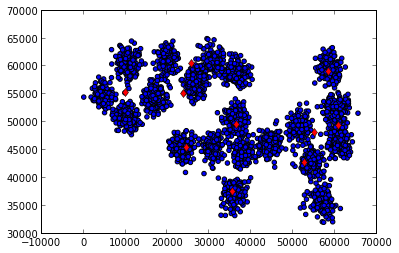
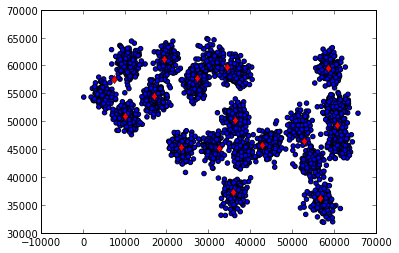
-

diff --git a/stat/stat_hadoop_kmeans/kmeans.tex b/stat/stat_hadoop_kmeans/kmeans.tex
@@ -199,7 +199,7 @@ plt.scatter(df1.ix[:,0],df1.ix[:,1])
 \end{codeinput}
 \begin{codeoutput}
 \begin{verbatim}
-<matplotlib.collections.PathCollection at 0x9dbd6cc>
+<matplotlib.collections.PathCollection at 0xafa270c>
 \end{verbatim}
 \begin{center}
 \includegraphics[width=0.7\textwidth]{kmeans_files/kmeans_fig_00.png}
@@ -218,19 +218,19 @@ plt.scatter(df1.ix[:,0],df1.ix[:,1])
 \end{codeinput}
 \begin{codeoutput}
 \begin{verbatim}
-stopping jobtracker
+no jobtracker to stop
 \end{verbatim}
 \begin{verbatim}
-localhost: stopping tasktracker
+localhost: no tasktracker to stop
 \end{verbatim}
 \begin{verbatim}
-stopping namenode
+no namenode to stop
 \end{verbatim}
 \begin{verbatim}
-localhost: stopping datanode
+localhost: no datanode to stop
 \end{verbatim}
 \begin{verbatim}
-localhost: stopping secondarynamenode
+localhost: no secondarynamenode to stop
 \end{verbatim}
 \begin{verbatim}
 starting namenode, logging to /home/hduser/Downloads/hadoop-1.0.4/libexec/../logs/hadoop-hduser-namenode-burak-Aspire-S3.out
@@ -261,6 +261,11 @@ komutlarimiz bile oraya erisemiyor)
 !ssh localhost -l hduser /home/hduser/Downloads/hadoop*/bin/hadoop dfs -mkdir /tmp/
 \end{lstlisting}
 \end{codeinput}
+\begin{codeoutput}
+\begin{verbatim}
+mkdir: cannot create directory /tmp/: File exists
+\end{verbatim}
+\end{codeoutput}
 \end{codecell}
 \begin{codecell}
 \begin{codeinput}
@@ -358,7 +363,7 @@ df4.to_csv(sys.stdout, sep=',',header=None)
 \end{codeoutput}
 \end{codecell}
 Alttaki blokta merkezleri rasgele seciyoruz. Bunun icin veri icinden
-rasgele 10 tane (k kadar) nokta cekip cikartik. Bu rasgele sayi uretimi
+rasgele 15 tane (k kadar) nokta cekip cikartik. Bu rasgele sayi uretimi
 ile de yapilabilirdi.
 
 \begin{codecell}
@@ -367,7 +372,7 @@ ile de yapilabilirdi.
 import os,sys,itertools
 from numpy import linalg as la
 import pandas as pd
-k = 10
+k = 15
 df = read_csv("synthetic.txt",header=None,sep="   ")
 centers = df.take(np.random.permutation(len(df))[:k])
 centers.to_csv("/tmp/centers.csv",header=None)
@@ -379,29 +384,38 @@ Komut satirindan tek makina icin Hadoop'suz isletelim,
 \begin{codecell}
 \begin{codeinput}
 \begin{lstlisting}
-!cat synthetic.txt | python mapper.py | python reducer.py
+for i in range(20):
+    os.system("cat synthetic.txt | python mapper.py | python reducer.py > /tmp/centers2.csv")
+    os.system("mv /tmp/centers2.csv /tmp/centers.csv")
+
+\end{lstlisting}
+\end{codeinput}
+\end{codecell}
+\begin{codecell}
+\begin{codeinput}
+\begin{lstlisting}
+df1 = read_csv("synthetic.txt",sep="   ")
+plt.scatter(df1.ix[:,0],df1.ix[:,1])
+plt.hold(True)
+df2 = read_csv("/tmp/centers.csv",header=None,index_col=0)
+plt.plot(df2.ix[:,1],df2.ix[:,2],'rd')
 
 \end{lstlisting}
 \end{codeinput}
 \begin{codeoutput}
 \begin{verbatim}
-0.0,36718.08528428094,49564.140468227422
-1.0,25959.254408060453,60455.123425692698
-2.0,55249.026666666665,48112.053333333337
-3.0,35568.968944099382,37459.291925465841
-4.0,23859.836363636365,55127.80909090909
-5.0,24622.733695652172,45459.809782608696
-6.0,58702.199999999997,59040.274285714288
-7.0,52774.160493827163,42663.596707818928
-8.0,10195.186832740214,55198.960854092526
-9.0,60974.952380952382,49307.349206349209
+[<matplotlib.lines.Line2D at 0xb1ff8cc>]
 \end{verbatim}
+\begin{center}
+\includegraphics[width=0.7\textwidth]{kmeans_files/kmeans_fig_01.png}
+\par
+\end{center}
 \end{codeoutput}
 \end{codecell}
-Simdi K-Means'i isleten kosturucu (runner) program. Bu program esleme,
-indirgeme safhalarini cagiracak, ve indirgeyici sonrasi ciktiyi alip
-yeni kume merkezi yapacak, bunun gibi idari / temizlik islerini
-halledecek.
+Simdi K-Means'i Hadoop'tan isleten kosturucu (runner) program. Bu
+program esleme, indirgeme safhalarini cagiracak, ve indirgeyici sonrasi
+ciktiyi alip yeni kume merkezi yapacak, bunun gibi idari / temizlik
+islerini halledecek.
 
 \begin{codecell}
 \begin{codeinput}
@@ -421,7 +435,7 @@ streaming_cmd = "/home/hduser/Downloads/hadoop*/contrib/streaming/hadoop-*stream
 os.system("%s dfs -rm /user/hduser/centers.csv" % hp_cmd)
 os.system("%s dfs -copyFromLocal /tmp/centers.csv /user/hduser" % hp_cmd)
 
-for i in range(10):
+for i in range(20):
     os.system("%s dfs -rmr /user/hduser/output" % hp_cmd)
     os.system("%s jar %s -input synthetic.txt -output output -mapper /tmp/mapper.py -reducer /tmp/reducer.py -numReduceTasks 1" % (hp_cmd,streaming_cmd))
     os.system("%s dfs -cp /user/hduser/output/part-00000 /user/hduser/centers.csv" % hp_cmd) 
@@ -429,11 +443,11 @@ for i in range(10):
 \end{lstlisting}
 \end{codeinput}
 \end{codecell}
-Ustte K-Means'i 10 kere islettigimizi goruyoruz. Eger istenirse (hatta
+Ustte K-Means'i 20 kere islettigimizi goruyoruz. Eger istenirse (hatta
 daha iyi olur) dongu bir while icine konur ve bitis icin ``stabilite
 sarti'' aranir. Stabilite yeni kume merkezinin eskisinden ``cok fazla
 degisik olup olmadigi'' sartidir, degisim yoksa artik sonucu bulmusuz
-demektir, daha fazla donguye gerek kalmayacaktir. Biz donguyu 10 kere
+demektir, daha fazla donguye gerek kalmayacaktir. Biz donguyu 20 kere
 donguyu islettik, (bu problem icin) yeterli oldu.
 
 K-Means isini bitirdikten sonra elde edilen sonuclari artik HDFS'ten
@@ -466,15 +480,15 @@ plt.plot(df2.ix[:,1],df2.ix[:,2],'rd')
 \end{codeinput}
 \begin{codeoutput}
 \begin{verbatim}
-[<matplotlib.lines.Line2D at 0x9f2d2cc>]
+[<matplotlib.lines.Line2D at 0xb369d6c>]
 \end{verbatim}
 \begin{center}
-\includegraphics[width=0.7\textwidth]{kmeans_files/kmeans_fig_01.png}
+\includegraphics[width=0.7\textwidth]{kmeans_files/kmeans_fig_02.png}
 \par
 \end{center}
 \end{codeoutput}
 \end{codecell}
-Sonuclar fena degil! Iste bu metotla terabayt olceginde, devasa bir
+Sonuclar fena degil. Iste bu metotla terabayt olceginde, devasa bir
 veriyi 20-30 makinaya dagitarak parca parca isleyip kumelemeniz
 mumkundur. Endustride son zamanlarda habire duyulan Buyuk Veri (Big
 Data) olayi iste bu.
